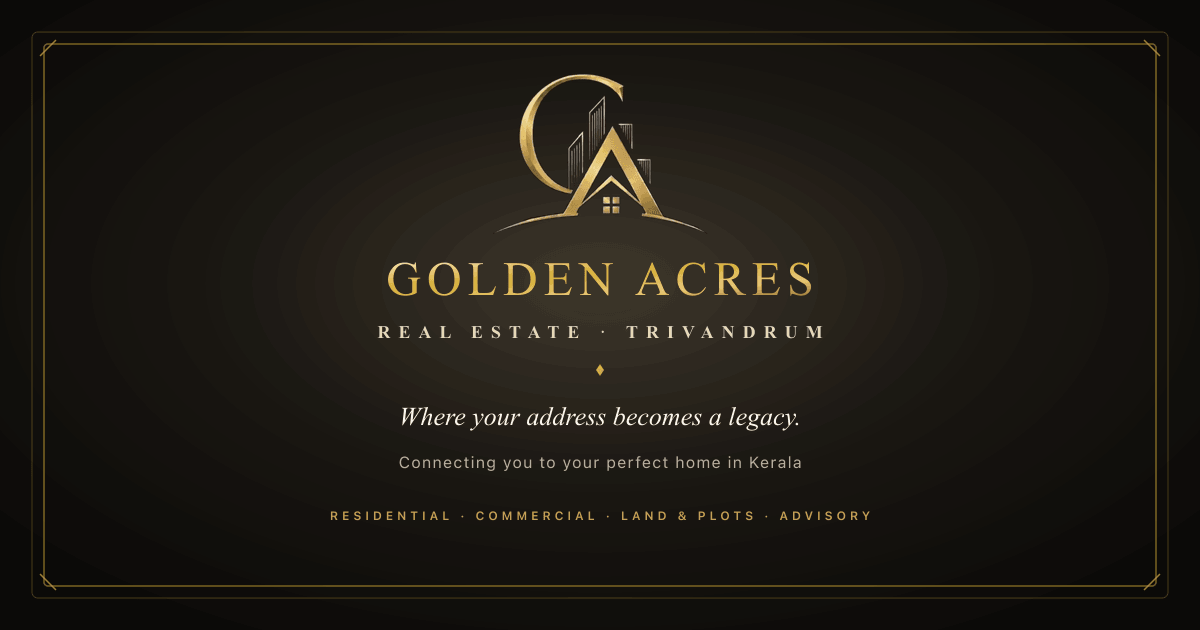
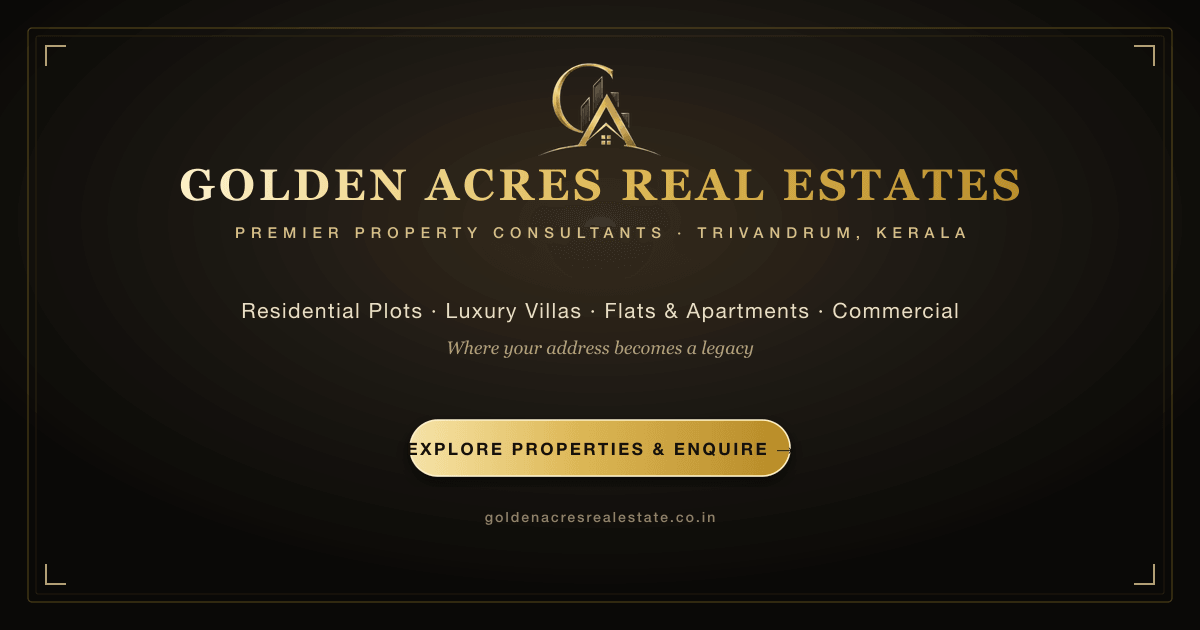
fix(seo): add conversion CTA to og:image and optimize og:description to 122 chars for social previews

diff --git a/src/lib/seo.ts b/src/lib/seo.ts
@@ -46,6 +46,8 @@ interface BuildMetadataInput {
   /** Page title. The site name is appended unless `absoluteTitle` is set. */
   title: string;
   description: string;
+  /** Optional shorter description for social preview cards (recommended <= 125 chars). */
+  ogDescription?: string;
   /** Site-relative canonical path, e.g. "/about". */
   path: string;
   keywords?: string[];
@@ -55,6 +57,17 @@ interface BuildMetadataInput {
   /** Use the title exactly as given (no " — Site name" suffix). */
   absoluteTitle?: boolean;
   noindex?: boolean;
+}
+
+/** Formats descriptions for social share cards to prevent mobile truncation (< 125 chars) */
+export function formatSocialDescription(desc: string, maxLen = 125): string {
+  if (desc.length <= maxLen) return desc;
+  const sliced = desc.slice(0, maxLen);
+  const lastSpace = sliced.lastIndexOf(" ");
+  if (lastSpace > 70) {
+    return sliced.slice(0, lastSpace).replace(/[.,;:!?\s]+$/, "");
+  }
+  return sliced;
 }
 
 /**
@@ -67,6 +80,7 @@ interface BuildMetadataInput {
 export function buildMetadata({
   title,
   description,
+  ogDescription,
   path,
   keywords,
   image = "/og-image.png",
@@ -77,6 +91,7 @@ export function buildMetadata({
   const fullTitle = absoluteTitle ? title : `${title} | Golden Acres`;
   const fullImageUrl = absoluteUrl(image);
   const canonicalUrl = absoluteUrl(path);
+  const socialDescription = ogDescription ?? formatSocialDescription(description);
 
   return {
     title: absoluteTitle ? { absolute: title } : title,
@@ -95,7 +110,7 @@ export function buildMetadata({
       locale: site.locale,
       url: canonicalUrl,
       title: fullTitle,
-      description,
+      description: socialDescription,
       images: [
         {
           url: fullImageUrl,
@@ -110,7 +125,7 @@ export function buildMetadata({
     twitter: {
       card: "summary_large_image",
       title: fullTitle,
-      description,
+      description: socialDescription,
       images: [fullImageUrl],
     },
     ...(noindex ? { robots: { index: false, follow: true } } : {}),

diff --git a/src/app/layout.tsx b/src/app/layout.tsx
@@ -28,6 +28,8 @@ const manrope = Manrope({
 const homeTitle = "Golden Acres Real Estates — Real Estate in Trivandrum";
 const homeDescription =
   "Golden Acres Real Estates (goldenacresrealestate.co.in): Premier property consultants in Trivandrum for land, plots, flats, and luxury villas in Kerala.";
+const homeOgDescription =
+  "Premier property consultants in Trivandrum for land, plots, flats & luxury villas in Kerala. Find your dream property.";
 
 export const metadata: Metadata = {
   metadataBase: new URL(SITE_URL),
@@ -54,7 +56,7 @@ export const metadata: Metadata = {
     type: "website",
     siteName: site.name,
     title: homeTitle,
-    description: homeDescription,
+    description: homeOgDescription,
     url: SITE_URL,
     locale: site.locale,
     images: [
@@ -71,7 +73,7 @@ export const metadata: Metadata = {
   twitter: {
     card: "summary_large_image",
     title: homeTitle,
-    description: homeDescription,
+    description: homeOgDescription,
     images: [`${SITE_URL}/og-image.png`],
   },
   robots: {
